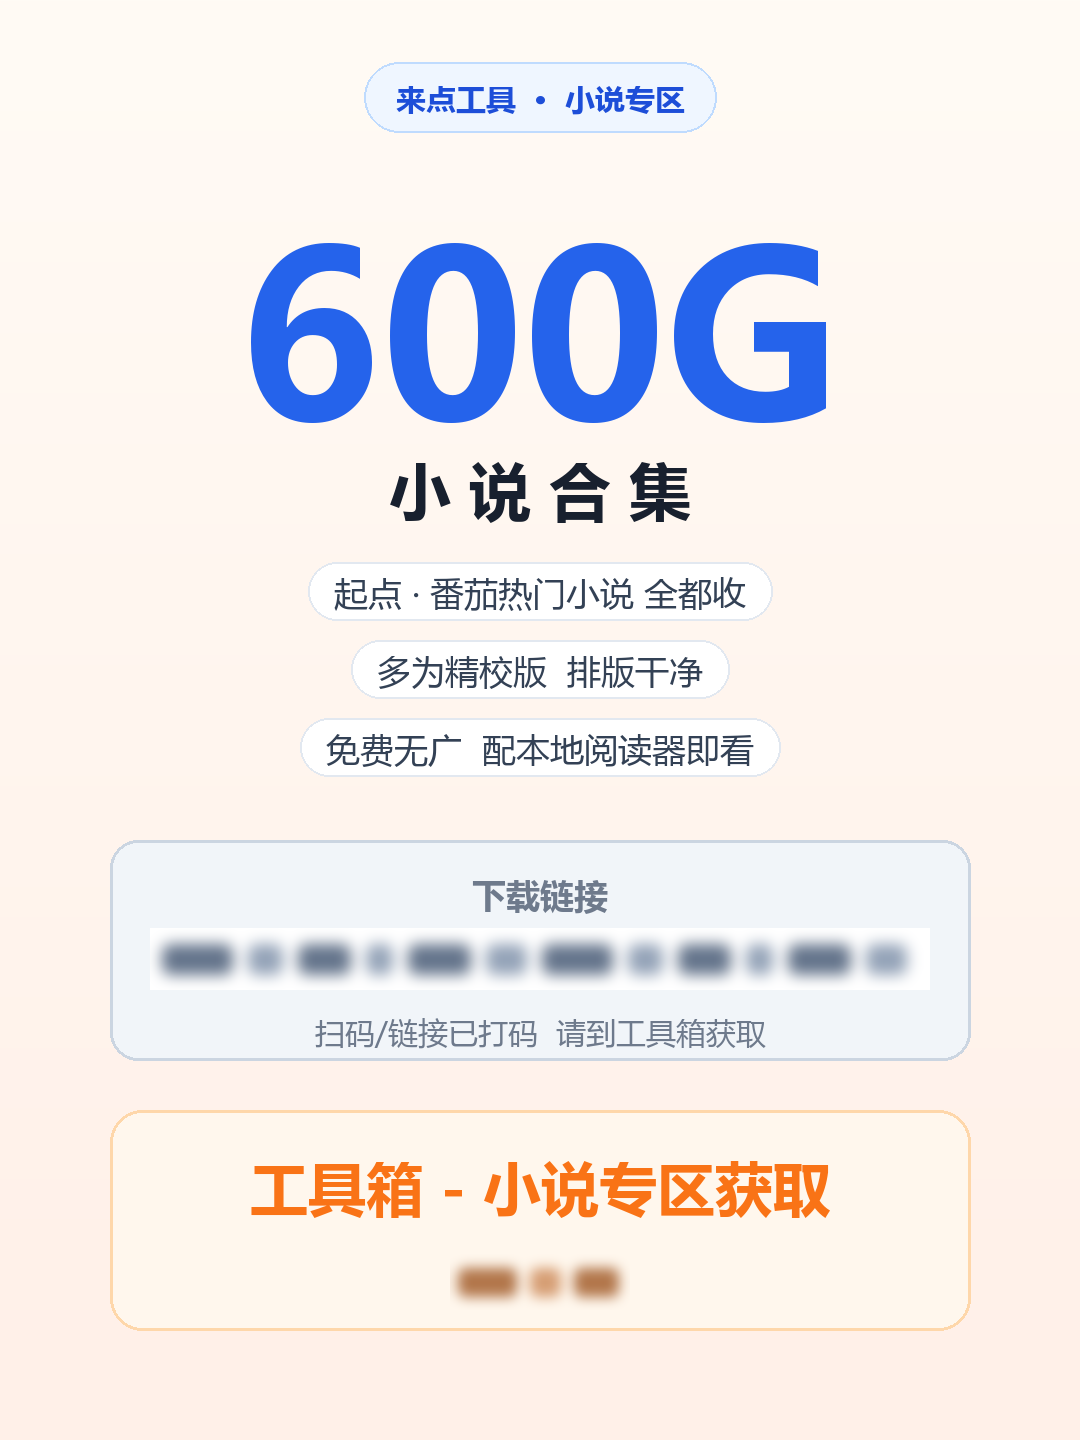
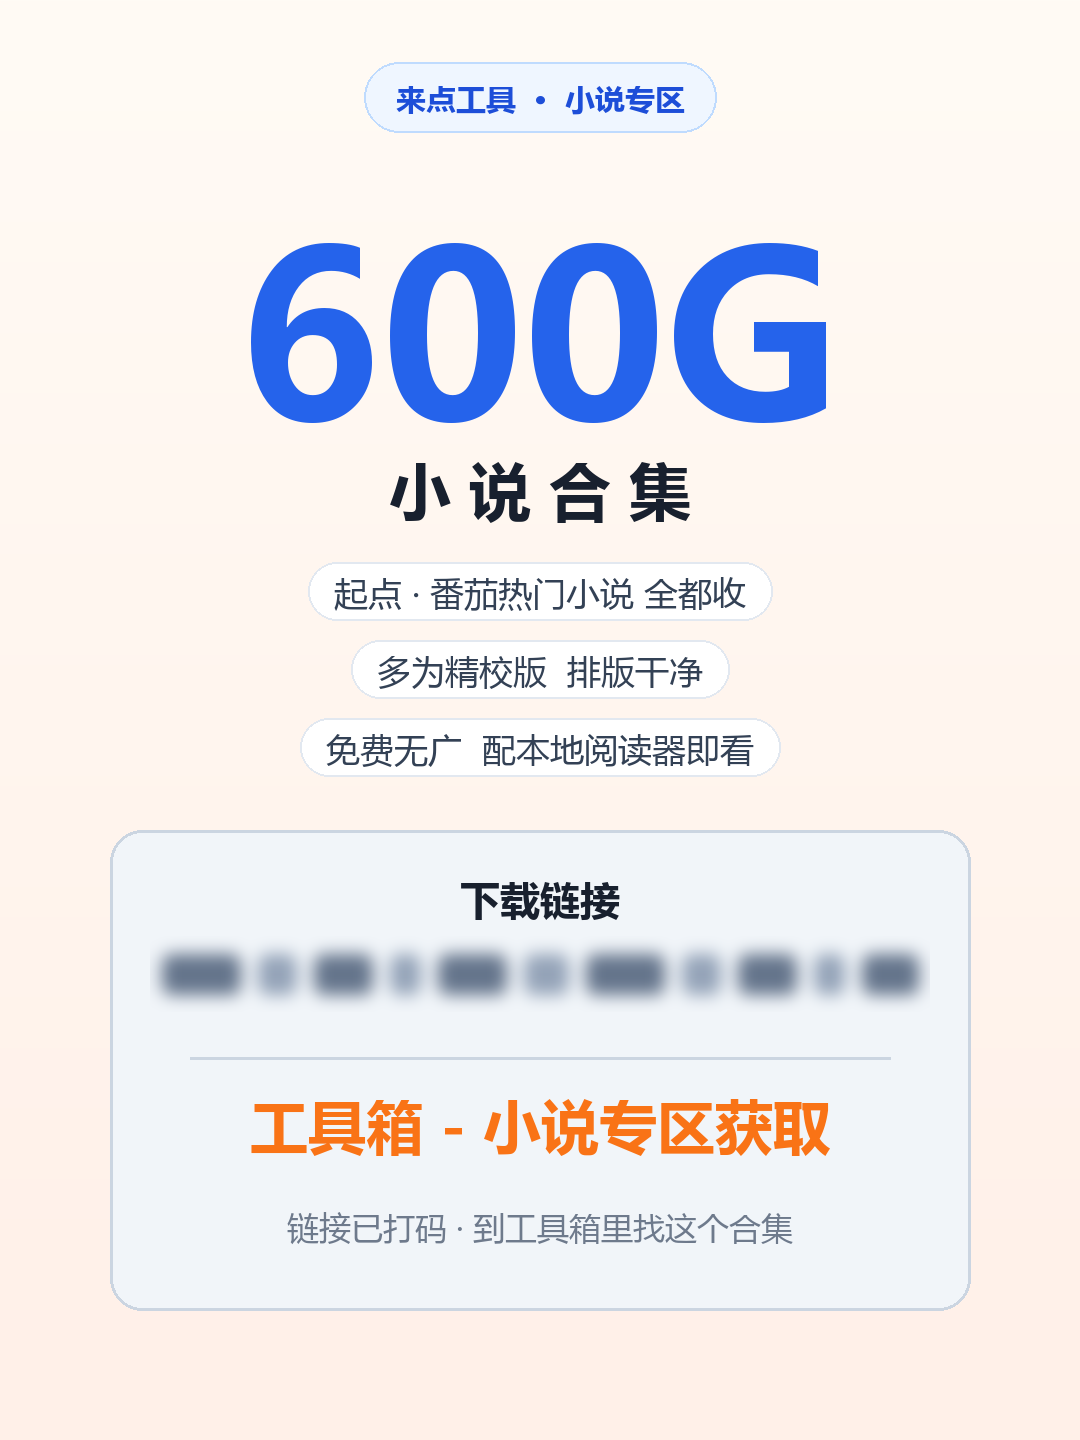
海报：下载链接与工具箱引导合并为一个板块

diff --git a/scripts/make_poster_600g.py b/scripts/make_poster_600g.py
@@ -84,61 +84,39 @@ for p in pts:
     d.text(((W - pw) / 2, y), p, font=f_pt, fill=(51, 65, 85))
     y += 78
 
-# ---------- 链接区域（打码） ----------
-box = (110, 840, W - 110, 1060)
-rounded(d, box, 28, fill=(241, 245, 249), outline=(203, 213, 225), width=3)
+# ---------- 合并板块：下载链接 + 马赛克 + 工具专区引导 ----------
+box = (110, 830, W - 110, 1310)
+rounded(d, box, 32, fill=(241, 245, 249), outline=(203, 213, 225), width=3)
 
-f_hint = font(34, True)
-center(d, '下载链接', 872, f_hint, GRAY)
+f_hint = font(40, True)
+center(d, '下载链接', 872, f_hint, INK)
 
 # 模糊的马赛克条：模拟被遮挡的链接
-blur = Image.new('RGB', (W - 300, 62), (255, 255, 255))
+blur = Image.new('RGB', (W - 300, 76), (241, 245, 249))
 bd = ImageDraw.Draw(blur)
 x = 12
 i = 0
 while x < blur.width - 12:
-    seg = [70, 34, 52, 26, 62, 40][i % 6]
+    seg = [78, 38, 58, 30, 68, 44][i % 6]
     seg = min(seg, blur.width - 12 - x)
     if seg <= 0:
         break
-    bd.rounded_rectangle((x, 16, x + seg, 46), radius=8,
+    bd.rounded_rectangle((x, 18, x + seg, 58), radius=9,
                          fill=(148, 163, 184) if i % 2 else (100, 116, 139))
-    x += seg + 16
+    x += seg + 18
     i += 1
-blur = blur.filter(ImageFilter.GaussianBlur(7))
-img.paste(blur, (150, 928))
+blur = blur.filter(ImageFilter.GaussianBlur(8))
+img.paste(blur, (150, 936))
 
-# 锁形提示
-f_lock = font(30, False)
-center(d, '扫码/链接已打码  请到工具箱获取', 1012, f_lock, GRAY)
+# 分隔线
+d.line([(190, 1058), (W - 190, 1058)], fill=(203, 213, 225), width=3)
 
-# ---------- 底部行动号召 ----------
-card = (110, 1110, W - 110, 1330)
-rounded(d, card, 32, fill=ORANGE_50, outline=(254, 215, 170), width=3)
-
+# 引导语
 f_cta = font(58, True)
-center(d, '工具箱 - 小说专区获取', 1148, f_cta, ORANGE)
+center(d, '工具箱 - 小说专区获取', 1086, f_cta, ORANGE)
 
-# 网址同样打码（模糊条覆盖）
-f_site = font(40, True)
-site = 'ldgj.xyz'
-sw = d.textlength(site, font=f_site)
-sy = 1262
-blur2 = Image.new('RGB', (int(sw) + 24, 56), (255, 247, 237))
-bd2 = ImageDraw.Draw(blur2)
-x = 8
-i = 0
-while x < blur2.width - 8:
-    seg = [58, 30, 44, 24, 52, 34][i % 6]
-    seg = min(seg, blur2.width - 8 - x)
-    if seg <= 0:
-        break
-    bd2.rounded_rectangle((x, 14, x + seg, 42), radius=7,
-                          fill=(214, 158, 116) if i % 2 else (178, 118, 74))
-    x += seg + 14
-    i += 1
-blur2 = blur2.filter(ImageFilter.GaussianBlur(6))
-img.paste(blur2, (int((W - blur2.width) / 2), sy - 8))
+f_tip = font(32, False)
+center(d, '链接已打码 · 到工具箱里找这个合集', 1206, f_tip, GRAY)
 
 os.makedirs(os.path.dirname(OUT), exist_ok=True)
 img.save(OUT, 'PNG')
